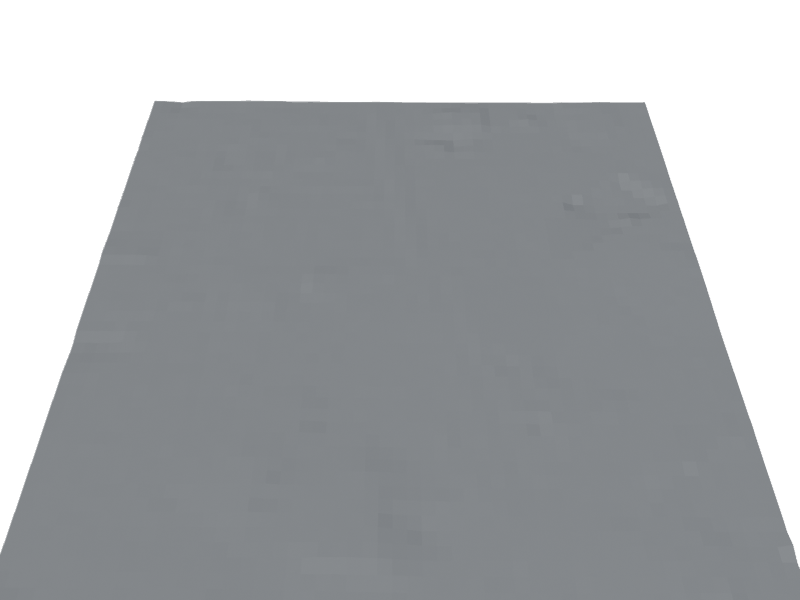
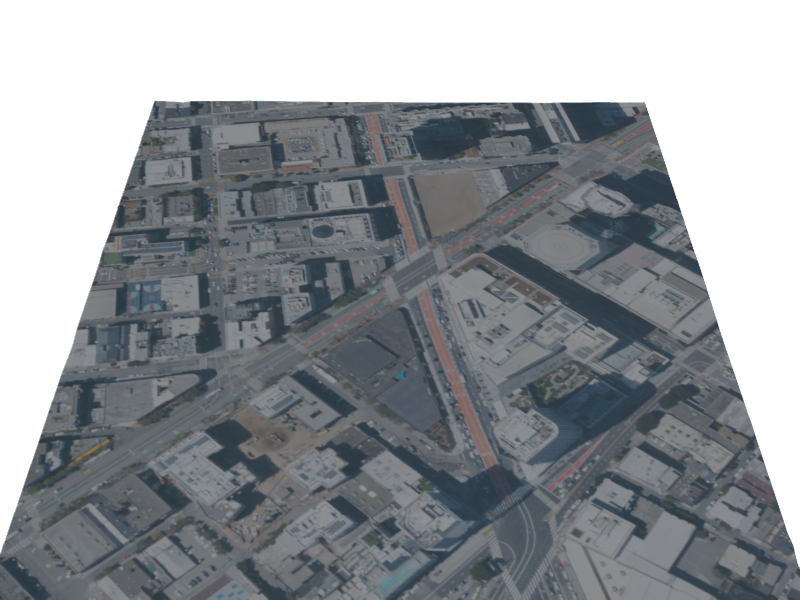
Hero: render now shows real NAIP imagery draped on the terrain (rwge #14); status line and caption say what is and isn't real (#14)
Claude-Session: https://claude.ai/code/session_01We5ySUBMH6Cmawn3ob7qdE

diff --git a/docs/index.html b/docs/index.html
@@ -145,8 +145,8 @@
     <p class="tagline">Play in the real world</p>
     <h1 id="h1">Automation flows for turning a captured place into game assets</h1>
     <p>Each flow runs one existing tool with nobody at the controls, checks what it made, and hands a file to the next flow. One tool per flow, so each can be tested on its own and swapped when something better ships.</p>
-    <p class="status"><strong>Status:</strong> a plan, not a demo. The harness that chains these flows checks every handoff. For one fixed spot (San Francisco), four stages now run for real: look up aerial-imagery and LiDAR records in a free public catalogue, build a terrain mesh from measured 10 m elevation data, reduce it, give it one flat colour averaged from real aerial imagery, and assemble it into a single glTF file that is read back and checked. Terrain only: no buildings, imagery is averaged to a single colour, not draped on the surface, nothing segmented. The other stages are stubs.</p>
-    <figure><img src="img/sf-terrain-preview.png" width="800" height="600" alt="Grey, nearly flat rectangular terrain surface rendered from above at an angle"><figcaption>Actual output of the last run, unretouched: the glTF file read back and rendered. About 540 m of downtown San Francisco, one flat grey-blue colour. This is where it stands.</figcaption></figure>
+    <p class="status"><strong>Status:</strong> a plan, not a demo. The harness that chains these flows checks every handoff. For one fixed spot (San Francisco), four stages now run for real: look up aerial-imagery and LiDAR records in a free public catalogue, build a terrain mesh from measured 10 m elevation data, reduce it, drape real aerial imagery over it, and assemble it into a single glTF file that is read back and checked. Terrain only: no buildings, nothing segmented, and the sun and shadows of the flight day are still baked into the colour. The other stages are stubs.</p>
+    <figure><img src="img/sf-terrain-preview.png" width="800" height="600" alt="Aerial imagery of downtown San Francisco city blocks draped on a flat terrain surface, seen from above at an angle, with building shadows visible in the picture"><figcaption>Actual output of the last run, unretouched: the glTF file read back and rendered. About 540 m of downtown San Francisco with real aerial imagery on a measured-elevation surface. The buildings are pictures on the ground, not 3D, and their shadows are baked in. This is where it stands.</figcaption></figure>
     <p class="closed"><a class="send mail" href="mailto:holtby.jonathan@gmail.com?subject=RWGE%20%E2%80%94%20a%20tool%20we%20run&amp;body=Which%20tool%20(or%20which%20real%20place%20you%20build%20by%20hand)%3A%0AHow%20we%20run%20it%20(or%20what%20it%20costs%20us%20in%20people%20and%20weeks)%3A%0AWhere%20it%20breaks%3A%0AStudio%20(optional)%3A%0A">Run one of these tools? Tell us where it breaks</a></p>
   </section>
 
